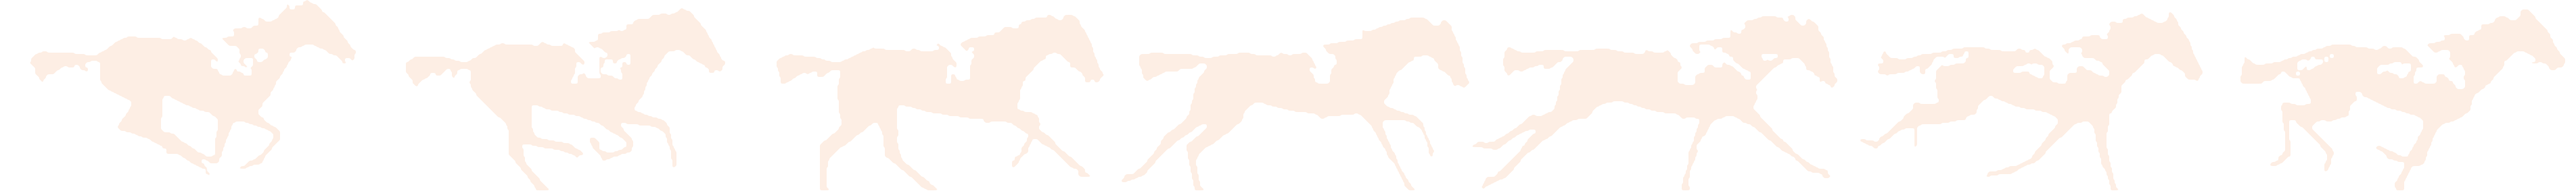
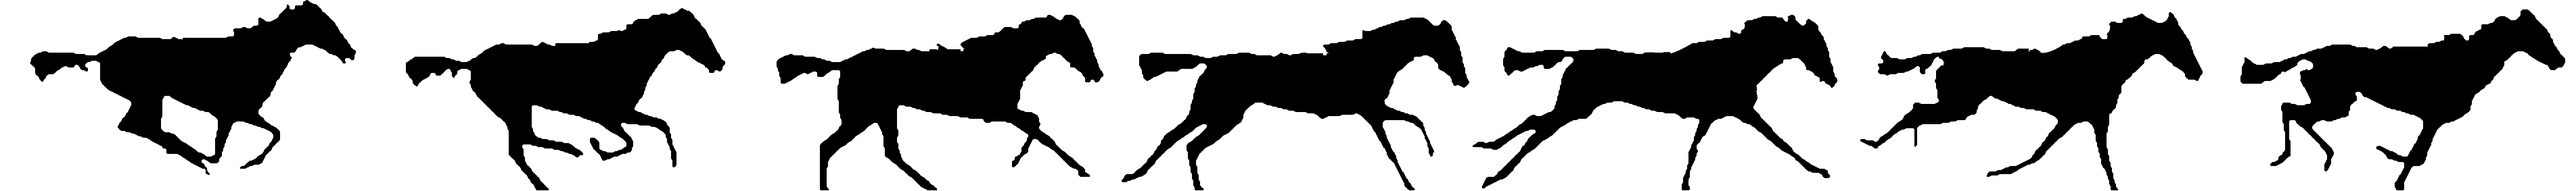
Add files via upload

Changed region(s): [[0.0, 0.0, 1.0, 1.0], [0.75, 0.8763, 0.7812, 0.9329]]

diff --git a/index.html b/index.html
@@ -59,6 +59,11 @@
       -webkit-font-smoothing: antialiased; line-height: 1.4;
     }
     main { max-width: 480px; margin: 0 auto; padding: calc(18px + env(safe-area-inset-top)) 18px calc(32px + env(safe-area-inset-bottom)); }
+    /* 16 Kas: sayfa yana kaymasın. Uzun, boşluksuz bir metin (ör. bir link) kartı taşırınca sağda boş alan açılıyordu.
+       Güvenlik ağı: taşan kısım kesilir (clip: yapışkan sekmeleri bozmaz). Kullanıcı metni olan yerlerde uzun kelime satıra bölünür. */
+    html { overflow-x: hidden; }
+    body, main { overflow-x: clip; }
+    .rp-is, .tk-ad, .konu-ad, .satir .alt, .kim, .alt-bilgi, .gorev-metin, .bilgi, .rp-t-ad, .rp-g-ust > span, .not { overflow-wrap: anywhere; min-width: 0; }
     svg.i { width: 20px; height: 20px; fill: none; stroke: currentColor; stroke-width: 1.8; stroke-linecap: round; stroke-linejoin: round; flex: none; }
     [hidden] { display: none !important; }
     a { color: inherit; }
@@ -155,6 +160,15 @@
       animation: kos .7s steps(7) infinite; }
     @keyframes kos { to { -webkit-mask-position: -728px 0; mask-position: -728px 0; } }
     @media (prefers-reduced-motion: reduce) { .yukleniyor:not(button)::before { animation: none; } }
+    /* Günün sözü (16 Kas): yalnız yükleniyor ekranında, atın altında. sozler.json yoksa hiçbir şey görünmez. */
+    .soz { text-align: center; max-width: 340px; margin: 0 auto; }
+    .soz .soz-ar { font-family: "Geeza Pro", "Noto Naskh Arabic", "Amiri", "Traditional Arabic", serif; font-size: 22px; line-height: 1.9; color: var(--yazi); }
+    .soz .soz-tr { font-size: 16px; line-height: 1.5; color: var(--yazi); }
+    .soz .soz-ar + .soz-tr { font-size: 14.5px; margin-top: 6px; }
+    .soz .soz-k { font-size: 12px; color: var(--soluk); margin-top: 6px; letter-spacing: .02em; }
+    .yukleniyor .soz { margin-top: 26px; opacity: 0; animation: sozGel .5s ease .15s forwards; }
+    @keyframes sozGel { to { opacity: 1; } }
+    @media (prefers-reduced-motion: reduce) { .yukleniyor .soz { animation: none; opacity: 1; } }
 
     /* Kurulum */
     .kart { background: var(--kart); border: 1px solid var(--cizgi); border-radius: 20px; padding: 18px; }
@@ -1752,6 +1766,50 @@
       } catch (e) {}
     }, 1500);
   }
+  // ---------- Günün sözü (16 Kas) ----------
+  // sozler.json: [{ ar, tr, kaynak }] — ehil birinin onayladığı liste; dosya yoksa / boşsa hiçbir şey gösterilmez.
+  // Her gün tek söz (gün boyu aynı): yalnız yükleniyor ekranında, atın altında (yükleme ≥ 0,6 sn sürerse).
+  const SOZ_ARAPCA = false;   // şimdilik yalnız Türkçe + kaynak; true yapılırsa Arapça metin de üstte görünür (veride duruyor)
+  let SOZLER = [];
+  try { SOZLER = window.SOZLER_ON || JSON.parse(localStorage.getItem('sozler') || '[]') || []; } catch (e) {}
+  function gununSozu() {
+    if (!Array.isArray(SOZLER) || !SOZLER.length) return null;
+    const d = new Date(), gun = Math.floor((Date.UTC(d.getFullYear(), d.getMonth(), d.getDate())) / 864e5);
+    return SOZLER[gun % SOZLER.length];
+  }
+  function sozKutusu() {
+    const x = gununSozu();
+    if (!x || !x.tr) return null;
+    return el('div', { sinif: 'soz' }, [
+      SOZ_ARAPCA && x.ar ? el('div', { sinif: 'soz-ar', dir: 'rtl', lang: 'ar', metin: x.ar }) : null,
+      el('div', { sinif: 'soz-tr', metin: x.tr }),
+      x.kaynak ? el('div', { sinif: 'soz-k', metin: x.kaynak }) : null]);
+  }
+  function sozYukleyiciye(n) {   // "Yükleniyor…" 0,6 sn'den uzun sürerse atın altında belirir (kısa yüklemede yanıp sönmez)
+    if (!n || n.tagName === 'BUTTON' || n.dataset.soz) return;
+    n.dataset.soz = '1';
+    setTimeout(function () { if (!n.isConnected || n.querySelector('.soz')) return; const s = sozKutusu(); if (s) n.appendChild(s); }, 600);
+  }
+  try {
+    new MutationObserver(function (ms) {
+      ms.forEach(function (m) { m.addedNodes.forEach(function (n) {
+        if (n.nodeType !== 1) return;
+        if (n.classList.contains('yukleniyor')) sozYukleyiciye(n);
+        else if (n.querySelector) n.querySelectorAll('.yukleniyor').forEach(sozYukleyiciye);
+      }); });
+    }).observe(document.body, { childList: true, subtree: true });
+    document.querySelectorAll('.yukleniyor').forEach(sozYukleyiciye);
+  } catch (e) {}
+  (async function () {
+    if (window.SOZLER_ON) return;
+    try {
+      const r = await fetch('sozler.json');
+      if (!r.ok) return;
+      const v = await r.json();
+      if (Array.isArray(v)) { SOZLER = v.filter(function (x) { return x && x.tr; }); try { localStorage.setItem('sozler', JSON.stringify(SOZLER)); } catch (e) {} }
+    } catch (e) {}
+  })();
+
   let yenileNo = 0;
   async function yenile() {
     if (DERS_LINK) { dersSecimModu(); return; }   // veli/öğrenci ders saati seçimi (kod yok)

diff --git a/sw.js b/sw.js
@@ -1,5 +1,5 @@
 // Uygulama kabuğunu önbellekte tutar (hızlı açılış); veri her zaman ağdan gelir.
-const KABUK = 'rehberlik-v59';
+const KABUK = 'rehberlik-v65';
 const DOSYALAR = ['./', 'index.html', 'manifest.webmanifest', 'ikon-192.png', 'ikon-512.png', 'ikon-180.png', 'at.png', 'tesbihat.json', 'kus-1.png', 'kus-2.png', 'kus-3.png', 'kus-4.png', 'kus-5.png', 'kus-6.png', 'kus-7.png'];
 
 self.addEventListener('install', function (e) {
